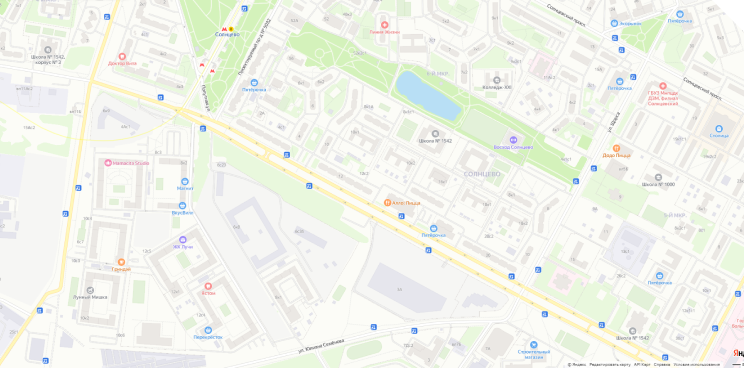
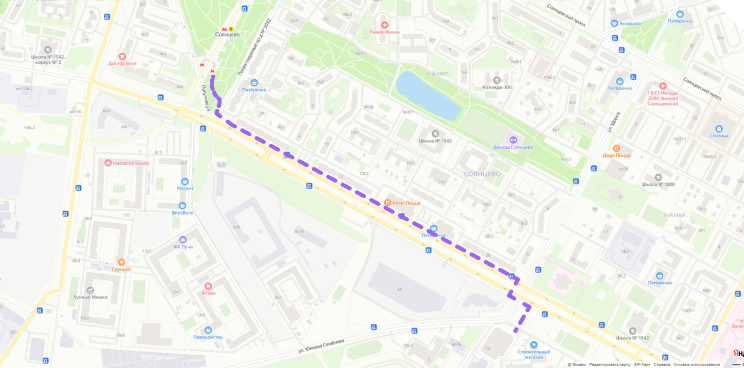
Some last fixes

diff --git a/src/js/app.js b/src/js/app.js
@@ -9,6 +9,7 @@ $(function() {
         nextArrow: $('.js-news-arrow-next'),
         prevArrow: $('.js-news-arrow-prev'),
         infinite: false,
+        centerMode: false,
         
         responsive: [
             {
@@ -77,31 +78,36 @@ $(function() {
 
             $(self).find('.js-tabs-content').removeClass('active')
             $(self).find(`.js-tabs-content[data-item="${$(this).attr('data-target')}"]`).addClass('active')
+
+            $('.js-contacts-slider').each(function() {
+                $(this).find('.js-contacts-slider-list').slick({
+                    slidesToShow: 1,
+                    slidesToScroll: 1,
+                    nextArrow: $(this).find('.js-contacts-arrow-next'),
+                    prevArrow: $(this).find('.js-contacts-arrow-prev'),
+                    infinite: false,
+                    lazyLoad: true,
+                })
+            })
         })
     })
 
-    $('.js-maps').each(function() {
-        ymaps
-            .load('https://api-maps.yandex.ru/2.1.40/?apikey=38a5b311-25a9-4c36-955e-bca7691fd2fb&lang=ru_RU&')
-            .then(maps => {
-                const map = new maps.Map(this, {
-                    center: [55.641964, 37.402288],
-                    zoom: 12,
-                    controls: []
-                })
-                return map
+    $('.js-maps').each(async function() {
+        try {
+            const maps = await ymaps.load('https://api-maps.yandex.ru/2.1/?load=package.full&apikey=38a5b311-25a9-4c36-955e-bca7691fd2fb&lang=ru_RU')
+            const map = await new maps.Map(this, {
+                center: [55.641964, 37.402288],
+                zoom: 12,
+                controls: []
             })
-            .then(map => {
-                const mapMark = new ymaps.GeoObject({
-                    geometry: {
-                    type: "Point",
-                    coordinates: map.center
-                    }
-                });
-
-                map.geoObjects
-                    .add(mapMark)
-            })
-            .catch(error => console.log(error))
+            const placemark = await new maps.Placemark([55.641964, 37.402288],
+                {
+                    iconCaption: 'Ледовая арена Солнцево'
+                },
+            )
+            map.geoObjects.add(placemark)
+        } catch(error) {
+            console.log(error)
+        }
     })
 })

diff --git a/src/scss/components/services-list.scss b/src/scss/components/services-list.scss
@@ -26,10 +26,16 @@
                 text-decoration: underline;
             }
         }
+        &.--shadow {   
+            & > a {
+                box-shadow: 0px -115px 40px -24px rgba(0,0,0,.3) inset;
+                img {
+                    position: relative;
+                    z-index: -2;
+                }
+            }
+        }
         & > a {
-            background: url('../../assets/images/logo-bg.png') no-repeat;
-            background-position: center;
-            background-color: $gray-medium;
             display: block;
             width: 100%;
             height: 100%;

diff --git a/src/scss/components/chest-block.scss b/src/scss/components/chest-block.scss
@@ -4,6 +4,15 @@
     @include desktop {
         padding: 40px 0;
     }
+    @include mobile {
+        position: relative;
+        padding-bottom: 80px;
+        .btn {
+            position: absolute;
+            bottom: 16px;
+            width: calc(100% - 32px);
+        }
+    }
     &:nth-child(2n) {
         & > div:first-child {
             order: 2;

diff --git a/src/scss/components/slick.scss b/src/scss/components/slick.scss
@@ -85,3 +85,7 @@ $slick-arrow-height: 40px;
         }
     }
 }
+.js-news-slider .slick-track {
+    margin-right: 0;
+    margin-left: 0;
+}
